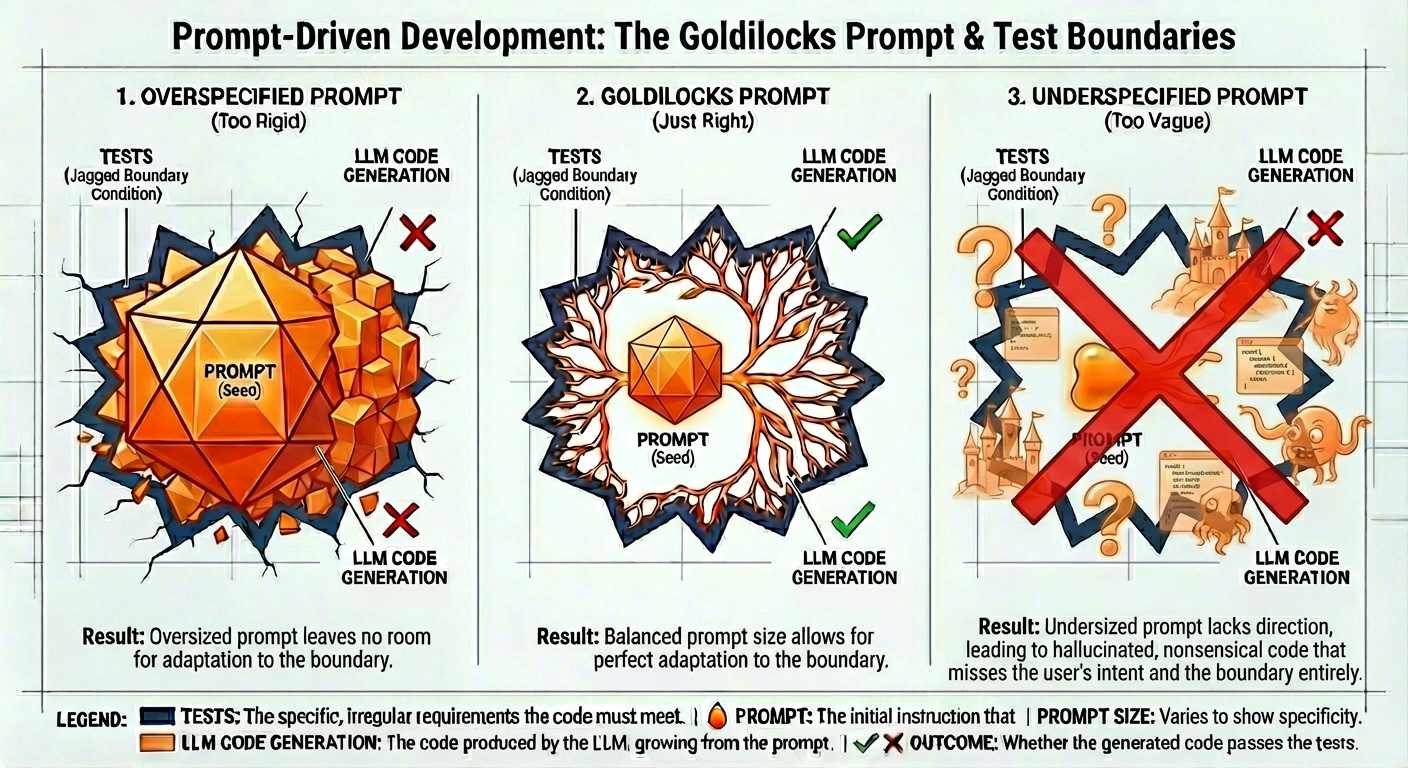
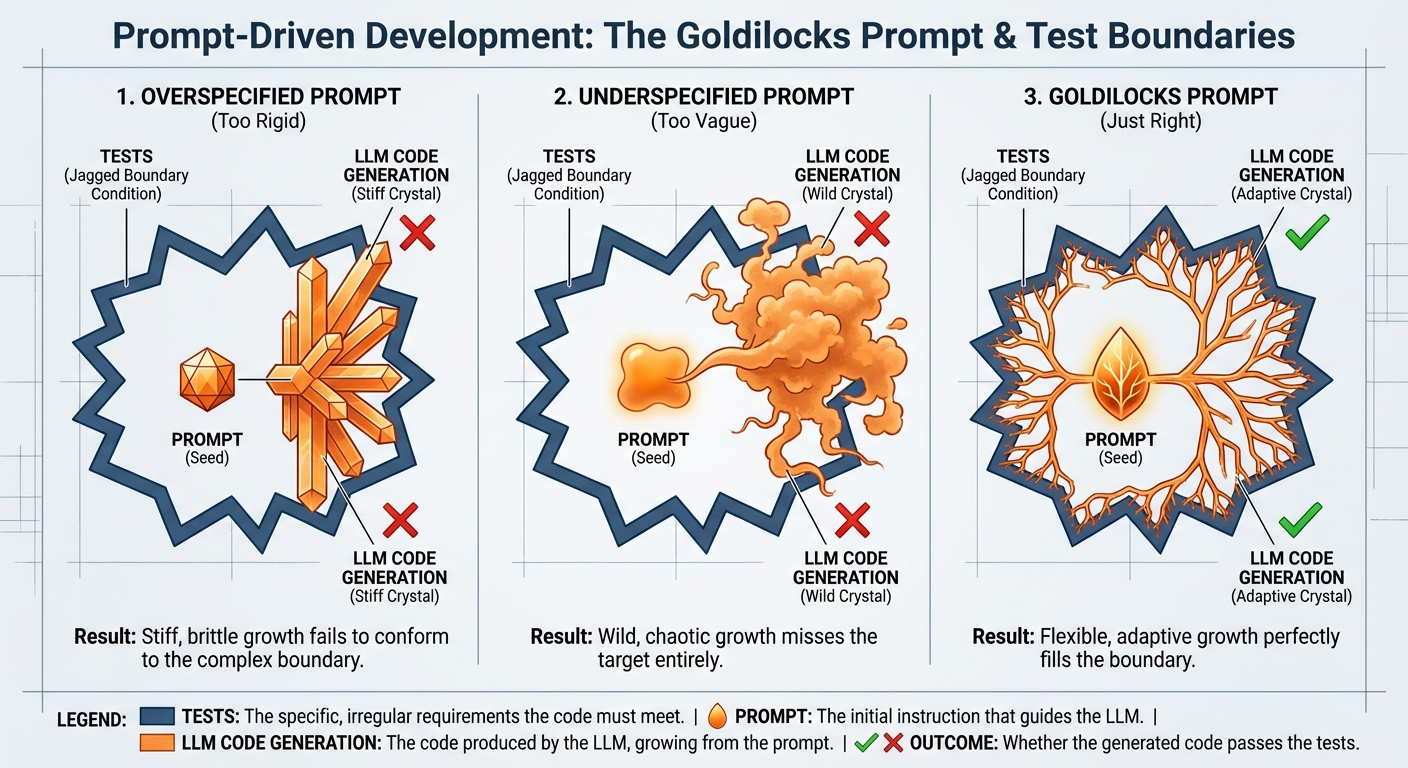
docs: add Goldilocks prompt image to prompting guide
- Introduced a new image, `goldilocks_prompt.jpeg`, to visually represent the "Goldilocks" zone concept in the prompting guide.
- Updated the prompting guide to include the image, enhancing the clarity and engagement of the content.

diff --git a/docs/prompting_guide.md b/docs/prompting_guide.md
@@ -232,6 +232,8 @@ Focus on clarity, measurable outcomes, and determinism:
 
 ## Level of Abstraction (The "Goldilocks" Zone)
 
+![Goldilocks Prompt](goldilocks_prompt.jpeg)
+
 Write prompts at the level of *architecture, contract, and intent*, not line-by-line *implementation details*.
 
 - **Too Vague:** "Create a user page." (Model guesses the requirements; unrepeatable).
